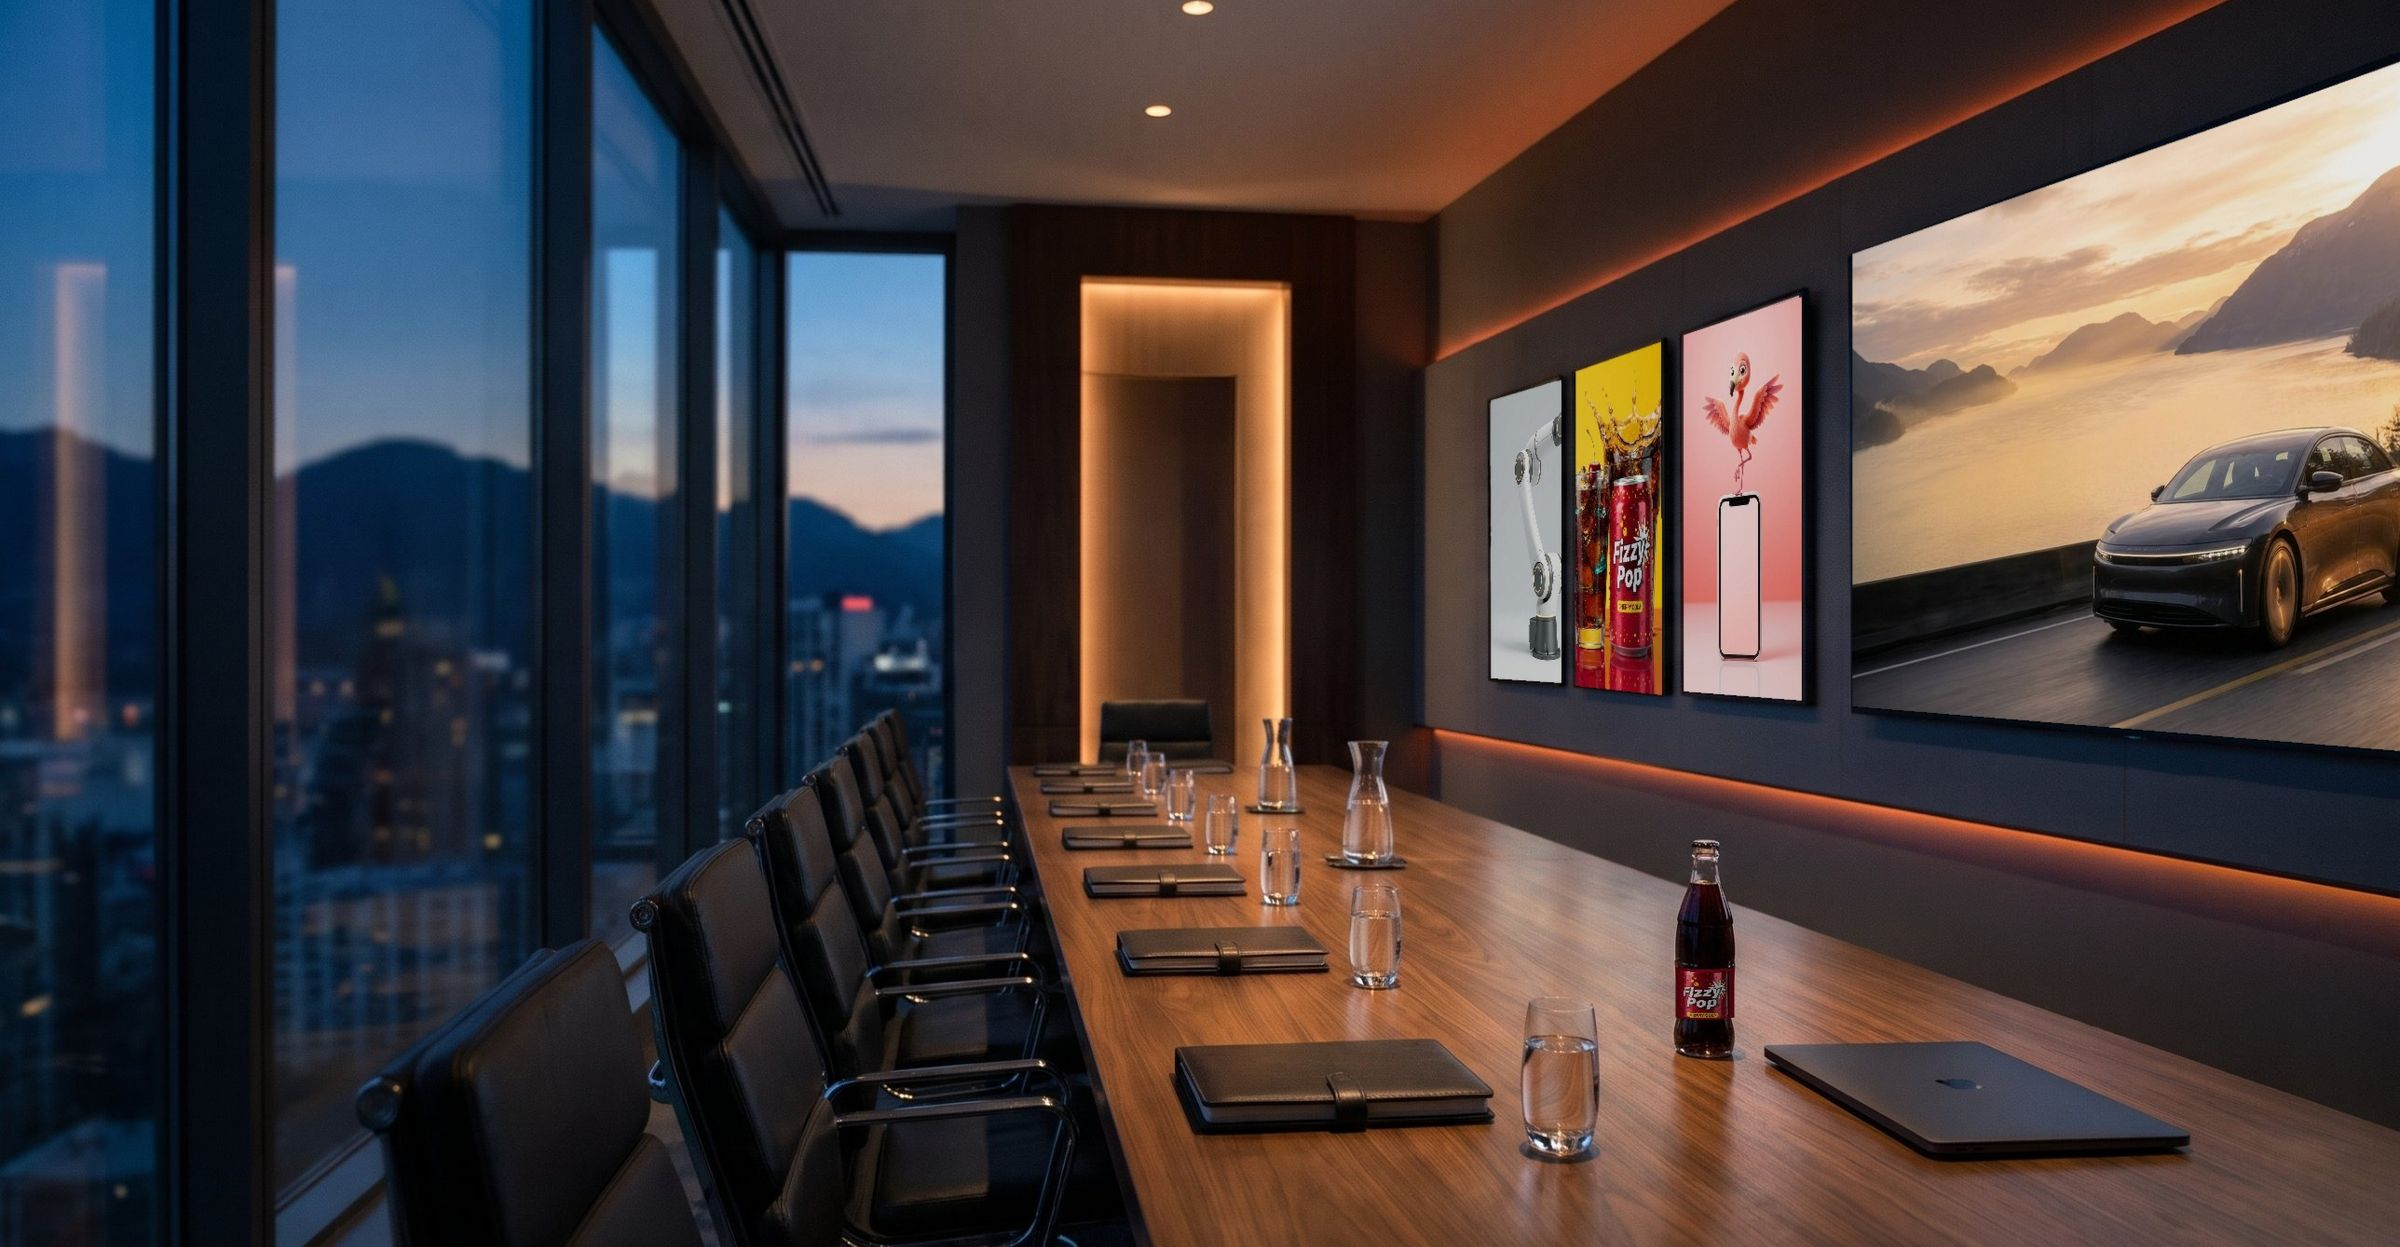
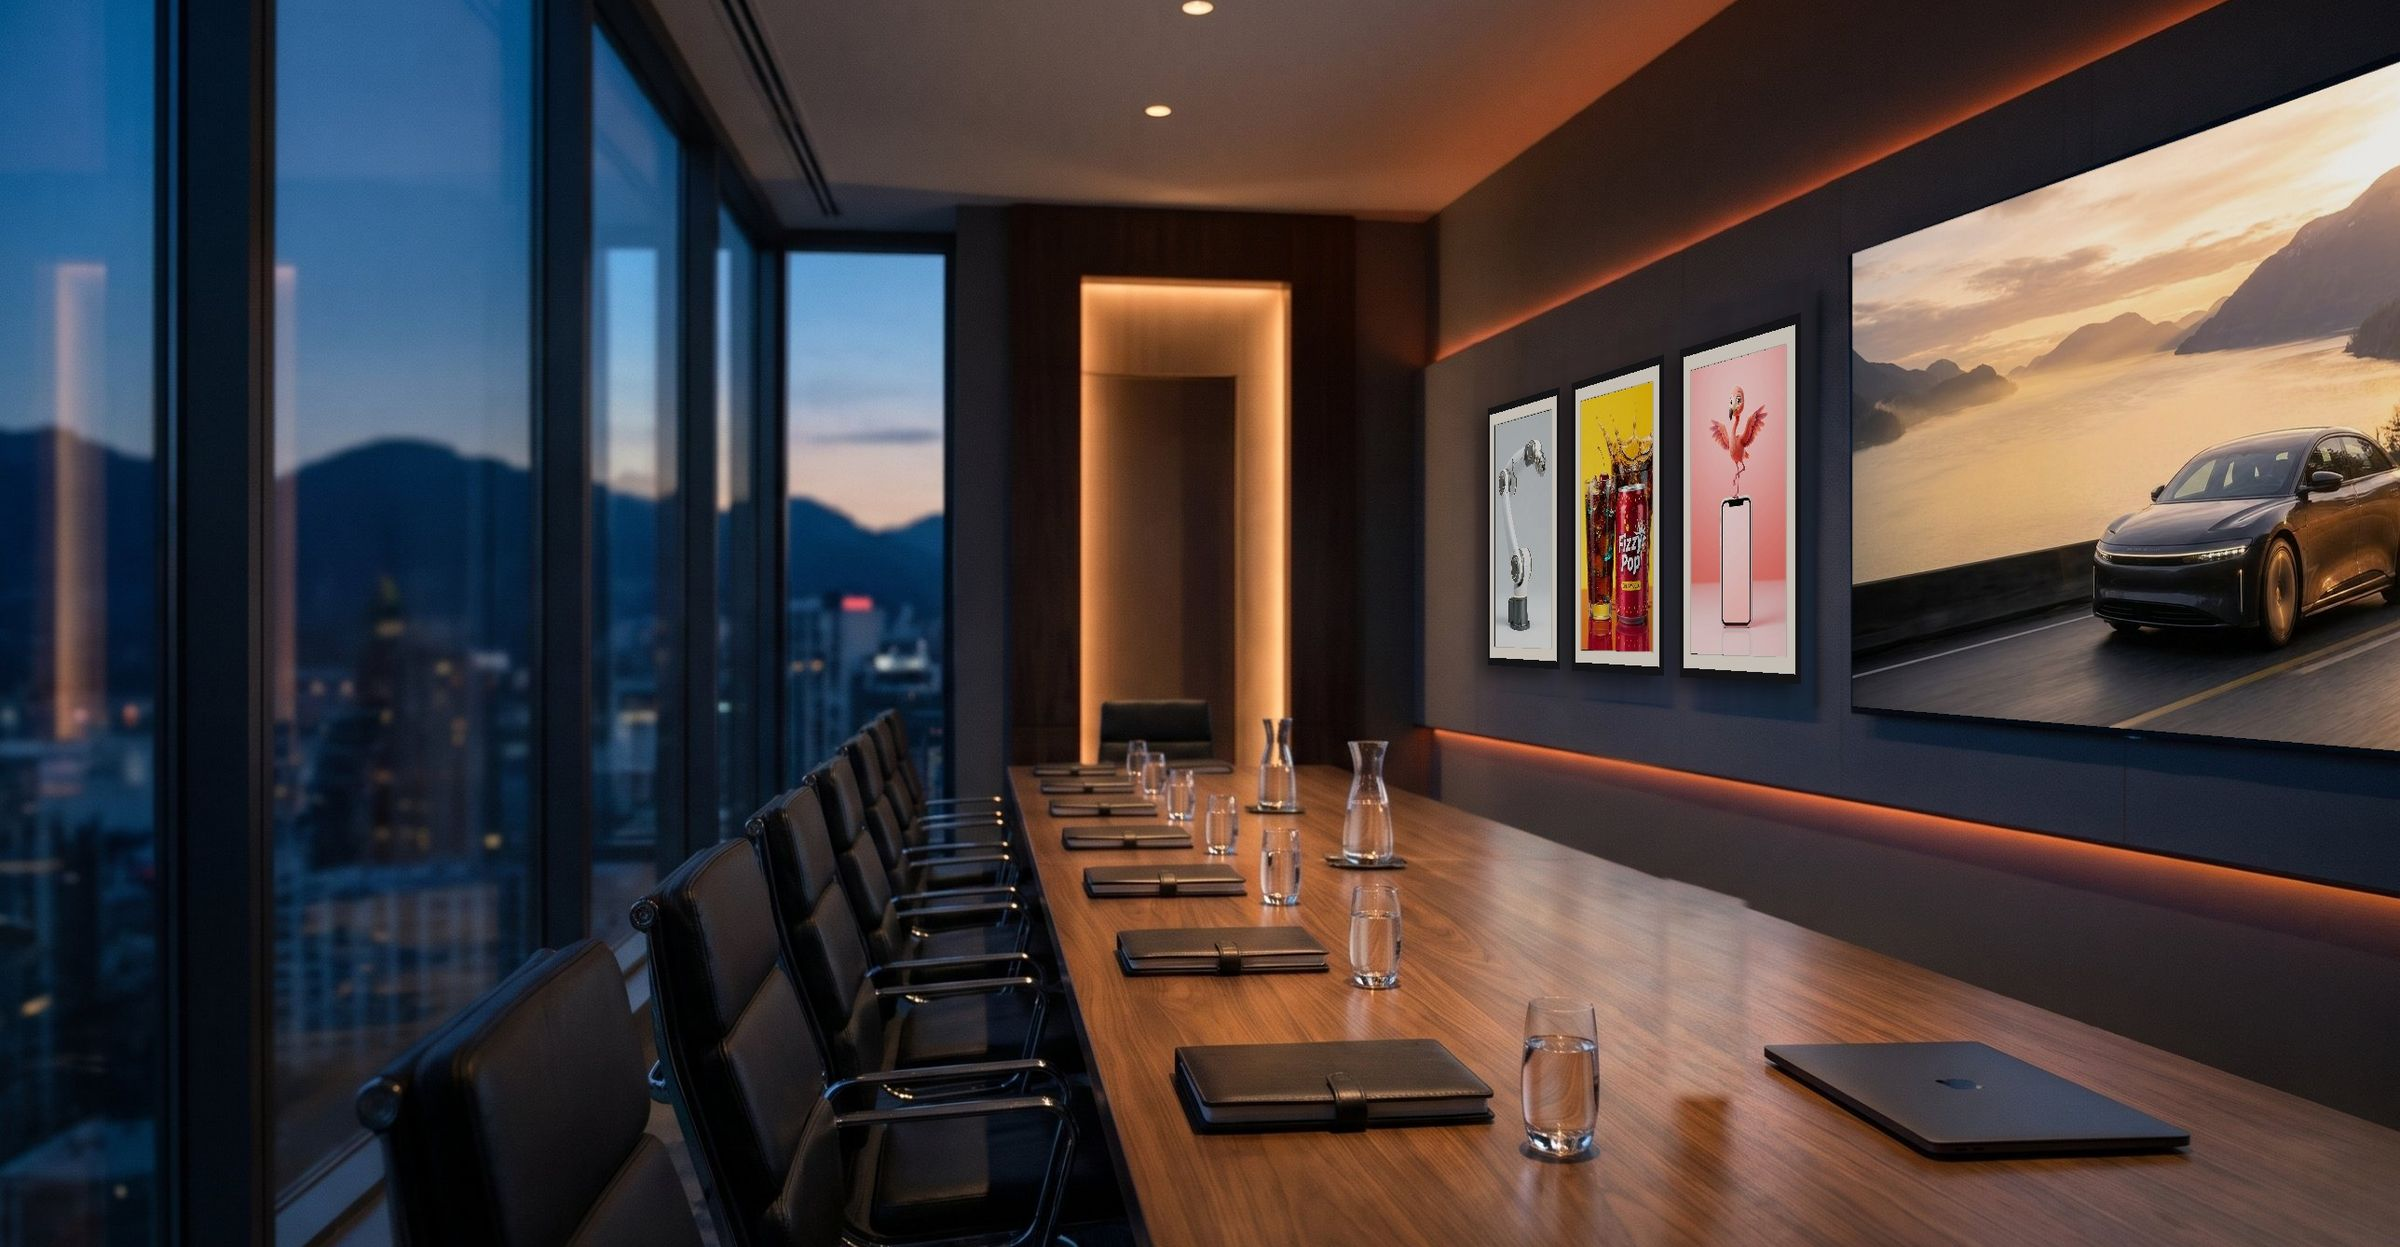
Home hero: three matching matted frames in perspective, bottle removed
Claude-Session: https://claude.ai/code/session_016tvzwU3cz4MoTCXz6b5jFJ

Changed region(s): [[0.5938, 0.2438, 0.7812, 0.579], [0.6875, 0.6704, 0.75, 0.8837]]

diff --git a/public/index.html b/public/index.html
@@ -1,5 +1,5 @@
 <!doctype html><html lang="en"><head><meta charset="utf-8"><meta name="viewport" content="width=device-width, initial-scale=1, viewport-fit=cover"><title>David Martin | Creative Professional</title><meta name="description" content="Creative Director with a video and visual-content specialty. I create and direct video, visual content, campaigns and digital experiences, combining creative direction with hands-on production and emerging AI technology."><link rel="canonical" href="https://studio.madebydavidmartin.com/"><meta name="theme-color" content="#231A10"><meta name="author" content="David Martin"><meta property="og:type" content="website"><meta property="og:site_name" content="David Martin, Creative Professional"><meta property="og:title" content="David Martin | Creative Professional"><meta property="og:description" content="Creative Director with a video and visual-content specialty. I create and direct video, visual content, campaigns and digital experiences, combining creative direction with hands-on production and emerging AI technology."><meta property="og:url" content="https://studio.madebydavidmartin.com/"><meta property="og:image" content="https://studio.madebydavidmartin.com/img/og-card.jpg?v=2"><meta property="og:image:width" content="1200"><meta property="og:image:height" content="630"><meta name="twitter:card" content="summary_large_image"><meta name="twitter:image" content="https://studio.madebydavidmartin.com/img/og-card.jpg?v=2"><link rel="icon" href="favicon.svg" type="image/svg+xml"><link rel="icon" href="favicon.ico" sizes="any"><link rel="apple-touch-icon" href="apple-touch-icon.png"><link rel="preconnect" href="https://fonts.googleapis.com"><link rel="preconnect" href="https://fonts.gstatic.com" crossorigin><link rel="stylesheet" href="https://fonts.googleapis.com/css2?family=Cormorant+Garamond:wght@300&family=IBM+Plex+Mono:wght@400;500&family=Caveat:wght@600&family=Geist:wght@400;500;600;700&family=Geist+Mono:wght@400;500&display=swap"><link rel="stylesheet" href="https://api.fontshare.com/v2/css?f[]=clash-display@600,700&display=swap">
-<link rel="preload" as="image" href="img/hero-banner.jpg?v=9" fetchpriority="high">
+<link rel="preload" as="image" href="img/hero-banner.jpg?v=10" fetchpriority="high">
 <link rel="stylesheet" href="styles.css?v=c1032"><style>body{margin:0}
 .flag-card{display:grid;grid-template-columns:minmax(240px,400px) 1fr;gap:28px;align-items:center;background:var(--card);border:1px solid var(--line);border-radius:0;overflow:hidden;color:var(--ink);margin:26px 0 4px}
 .flag-card video{width:100%;height:100%;object-fit:cover;display:block;aspect-ratio:16/9;background:#000}
@@ -116,7 +116,7 @@
 .cine{position:relative;isolation:isolate;--hero-photo-o:1}
 .cine{background:#E7D6B4;box-shadow:0 0 0 100vmax #E7D6B4}
 main .cine::after{background:linear-gradient(90deg,rgba(8,8,10,.74),rgba(8,8,10,.22) 55%,rgba(8,8,10,0) 80%)} /* Oct 2026: retire old hero-home.jpg now that hero-edit-suite.jpg is the hero background */
-.cine::before{content:"";position:absolute;top:0;bottom:0;left:50%;transform:translateX(-50%);width:100vw;z-index:0;pointer-events:none;opacity:0;animation:cineBgIn 1.8s ease .15s forwards;background:url("img/hero-banner.jpg?v=9") center 62%/cover no-repeat}
+.cine::before{content:"";position:absolute;top:0;bottom:0;left:50%;transform:translateX(-50%);width:100vw;z-index:0;pointer-events:none;opacity:0;animation:cineBgIn 1.8s ease .15s forwards;background:url("img/hero-banner.jpg?v=10") center 62%/cover no-repeat}
 .cine-in{position:relative;z-index:1}
 @keyframes cineBgIn{from{opacity:0}to{opacity:var(--hero-photo-o,.8)}}
 @media (prefers-reduced-motion:reduce){.cine::before{animation:none;opacity:var(--hero-photo-o,.8)}}
